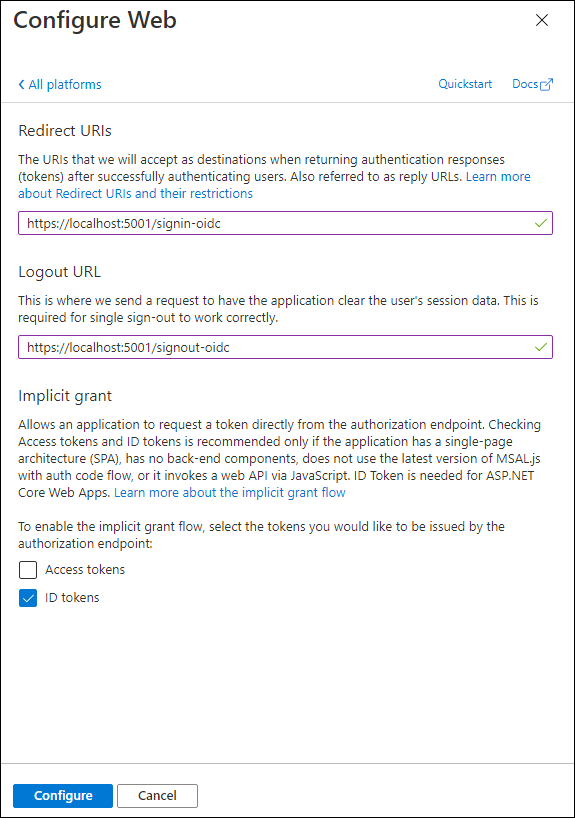
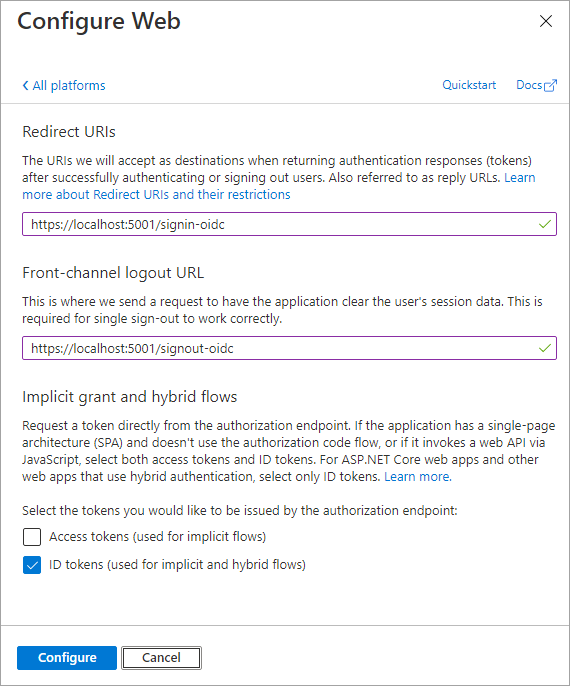
MSIdentity - AppRoles - FY21Q3 refresh
- run through all exercise steps in associated MSLearn module to validate good working order
- updated steps & fixed typos where necessary
- implement changes per Acrolinx feedback
- any & all users/names/company names/pictures/IDs are not real people/tenants... all are from M365 demo tenants provided by Microsoft

diff --git a/learn-m365-pr/m365-developer/identity-users-groups-approles/includes/3-exercise-create-web-app.md b/learn-m365-pr/m365-developer/identity-users-groups-approles/includes/3-exercise-create-web-app.md
@@ -34,7 +34,7 @@ On the **Configure Web** panel, use the following values to configure the applic
 
 - **Redirect URIs**: https://localhost:5001/signin-oidc
 - **Logout URL**: https://localhost:5001/signout-oidc
-- **Implicit grant**: select **ID tokens**
+- **Implicit grant and hybrid flows**: select **ID tokens (used for implicit and hybrid flows)**
 
 Select **Configure** when finished setting these values.
 
@@ -69,63 +69,6 @@ Set the `AzureAd.Domain` property to the domain of your Azure AD tenant where yo
 Set the `AzureAd.TenantId` property to the **Directory (tenant) ID** you copied when creating the Azure AD application in the previous section.
 
 Set the `AzureAd.ClientId` property to the **Application (client) ID** you copied when creating the Azure AD application in the previous section.
-
-### Configure web application middleware
-
-Locate and open the **./Startup.cs** file in the ASP.NET Core project.
-
-Add the following `using` statement after the existing `using` statements:
-
-```csharp
-using Microsoft.AspNetCore.Http;
-using Microsoft.Identity.Web;
-using Microsoft.Identity.Web.UI;
-using Microsoft.AspNetCore.Authentication.OpenIdConnect;
-```
-
-Locate the method `ConfigureServices()`.
-
-Replace the body of the method with the following code. This code will configure the web app's middleware to support Azure AD for authentication and to obtain an ID token:
-
-```csharp
-services.Configure<CookiePolicyOptions>(options =>
-{
-  // This lambda determines whether user consent for non-essential cookies is needed for a given request.
-  options.CheckConsentNeeded = context => true;
-  options.MinimumSameSitePolicy = SameSiteMode.Unspecified;
-  // Handling SameSite cookie according to https://docs.microsoft.com/en-us/aspnet/core/security/samesite?view=aspnetcore-3.1
-  options.HandleSameSiteCookieCompatibility();
-});
-
-services.AddOptions();
-
-services.AddMicrosoftIdentityWebAppAuthentication(Configuration);
-
-services.AddControllersWithViews(options =>
-{
-  var policy = new AuthorizationPolicyBuilder()
-                .RequireAuthenticatedUser()
-                .Build();
-  options.Filters.Add(new AuthorizeFilter(policy));
-}).AddMicrosoftIdentityUI();
-
-services.AddRazorPages();
-```
-
-Within the method `ConfigureServices()`, locate the following line:
-
-```csharp
-services.AddMicrosoftIdentityWebAppAuthentication(Configuration);
-```
-
-Add the following code after this line. This code will configure the web app's middleware to support the v2 tokens from Microsoft identity:
-
-```csharp
-services.Configure<OpenIdConnectOptions>(AzureADDefaults.OpenIdScheme, options =>
-{
-  options.Authority = options.Authority + "/v2.0/";
-});
-```
 
 ### Update the user experience
 

diff --git a/learn-m365-pr/m365-developer/identity-users-groups-approles/includes/2-users-groups.md b/learn-m365-pr/m365-developer/identity-users-groups-approles/includes/2-users-groups.md
@@ -104,42 +104,6 @@ Open this file and set the three values you collected from registering the Azure
 }
 ```
 
-#### Configure web application middleware
-
-Next, you need to modify the web app startup process to configure the support for signing-in with Azure AD and obtaining an ID token. This is handled by the **Microsoft.Identity.Web** NuGet package.
-
-Within the method `ConfigureServices()` in the **Startup.cs** file, use the following code to configure the web app's middleware to support the v2 tokens from Microsoft identity:
-
-```csharp
-services.Configure<CookiePolicyOptions>(options =>
-{
-  // This lambda determines whether user consent for non-essential cookies is needed for a given request.
-  options.CheckConsentNeeded = context => true;
-  options.MinimumSameSitePolicy = SameSiteMode.Unspecified;
-  // Handling SameSite cookie according to https://docs.microsoft.com/en-us/aspnet/core/security/samesite?view=aspnetcore-3.1
-  options.HandleSameSiteCookieCompatibility();
-});
-
-services.AddOptions();
-
-services.AddMicrosoftIdentityWebAppAuthentication(Configuration);
-
-services.Configure<OpenIdConnectOptions>(AzureADDefaults.OpenIdScheme, options =>
-{
-  options.Authority = options.Authority + "/v2.0/";
-});
-
-services.AddControllersWithViews(options =>
-{
-  var policy = new AuthorizationPolicyBuilder()
-                .RequireAuthenticatedUser()
-                .Build();
-  options.Filters.Add(new AuthorizeFilter(policy));
-}).AddMicrosoftIdentityUI();
-
-services.AddRazorPages();
-```
-
 #### Display the user's claims
 
 Finally, update the user experience of the web application to display all the claims in the OpenID Connect ID token that is provided by Azure AD when the user signed in.

diff --git a/learn-m365-pr/m365-developer/identity-users-groups-approles/includes/5-exercise-authorize-security-groups.md b/learn-m365-pr/m365-developer/identity-users-groups-approles/includes/5-exercise-authorize-security-groups.md
@@ -158,7 +158,7 @@ namespace UserGroupRole
 }
 ```
 
-The sample data will be stored as a singleton in the dependency injection container built into ASP.NET core. Open the **Startup.cs** file in the root folder of the project. Locate the statement that calls the `AddControllersWithViews()` method. Before that statement, add the following:
+The sample data will be stored as a singleton in the dependency injection container built into ASP.NET core. Open the **Startup.cs** file in the root folder of the project. Add the following line at the bottom of the `ConfigureServices()` method:
 
 ```csharp
 services.AddSingleton(SampleData.Initialize());
